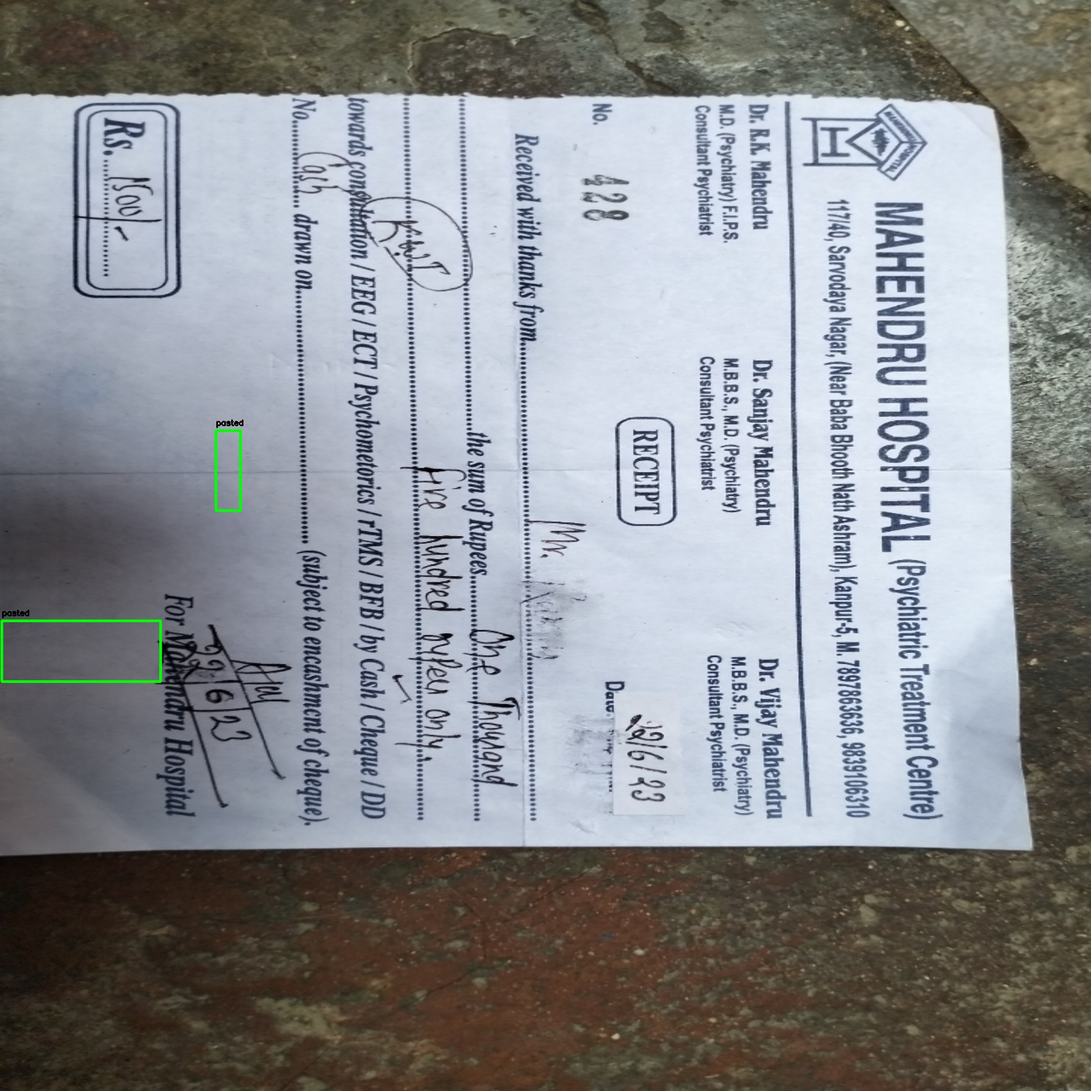
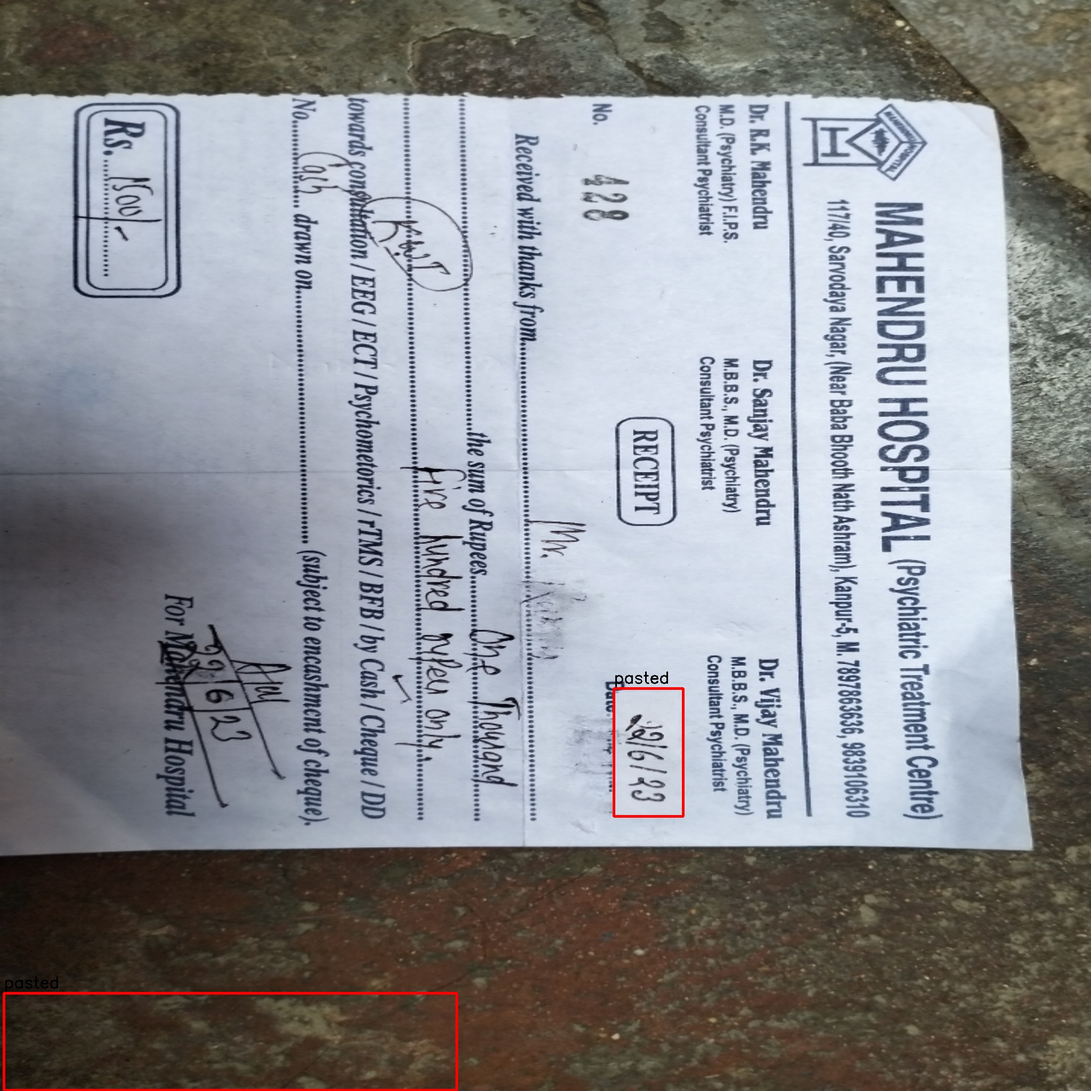
da

diff --git a/UI_2.py b/UI_2.py
@@ -79,7 +79,39 @@ def predict(img):
                 cv2.putText(img, "overwriting", ((x - int(w / 2), y - int(h / 2) - 10)), cv2.FONT_HERSHEY_SIMPLEX, 1,
                             (0, 0, 0), 2)
 ##################### paste
-    
+    clahe2 = cv2.createCLAHE(clipLimit=0 / 10.0, tileGridSize=(3, 3))
+
+    # Apply AHE to the image
+    equalized_image2 = clahe2.apply(image)
+    bgr_image3 = cv2.cvtColor(equalized_image2, cv2.COLOR_GRAY2BGR)
+
+
+
+    results = model3(bgr_image3, imgsz=(2048, 2048), conf=0.5)
+    for result in results:
+        boxes = result.boxes  # Boxes object for bbox outputs
+        masks = result.masks  # Masks object for segmentation masks outputs
+        keypoints = result.keypoints  # Keypoints object for pose outputs
+        probs = result.probs  # Probs object for classification outputs
+
+        for box in boxes:
+            # print(box.xywh)
+            if (int(box.cls) == 0):
+                x = int(box.xywh[0][0])
+                y = int(box.xywh[0][1])
+                w = int(box.xywh[0][2])
+                h = int(box.xywh[0][3])
+                i = int(box.cls)
+                a = (2048 / height) * (x - (w / 2))
+
+                b = (2048 / width) * (y - (h / 2))
+                c = (2048 / height) * (x + (w / 2))
+
+                d = (2048 / width) * (y + (h / 2))
+
+                cv2.rectangle(img, (int(a), int(b)),
+                              (int(c), int(d)), (0, 0, 255), thickness=4)
+                cv2.putText(img, "pasted", (int(a), int(b) - 10), cv2.FONT_HERSHEY_SIMPLEX, 1, (0, 0, 0), 2)
 
 
     return img
